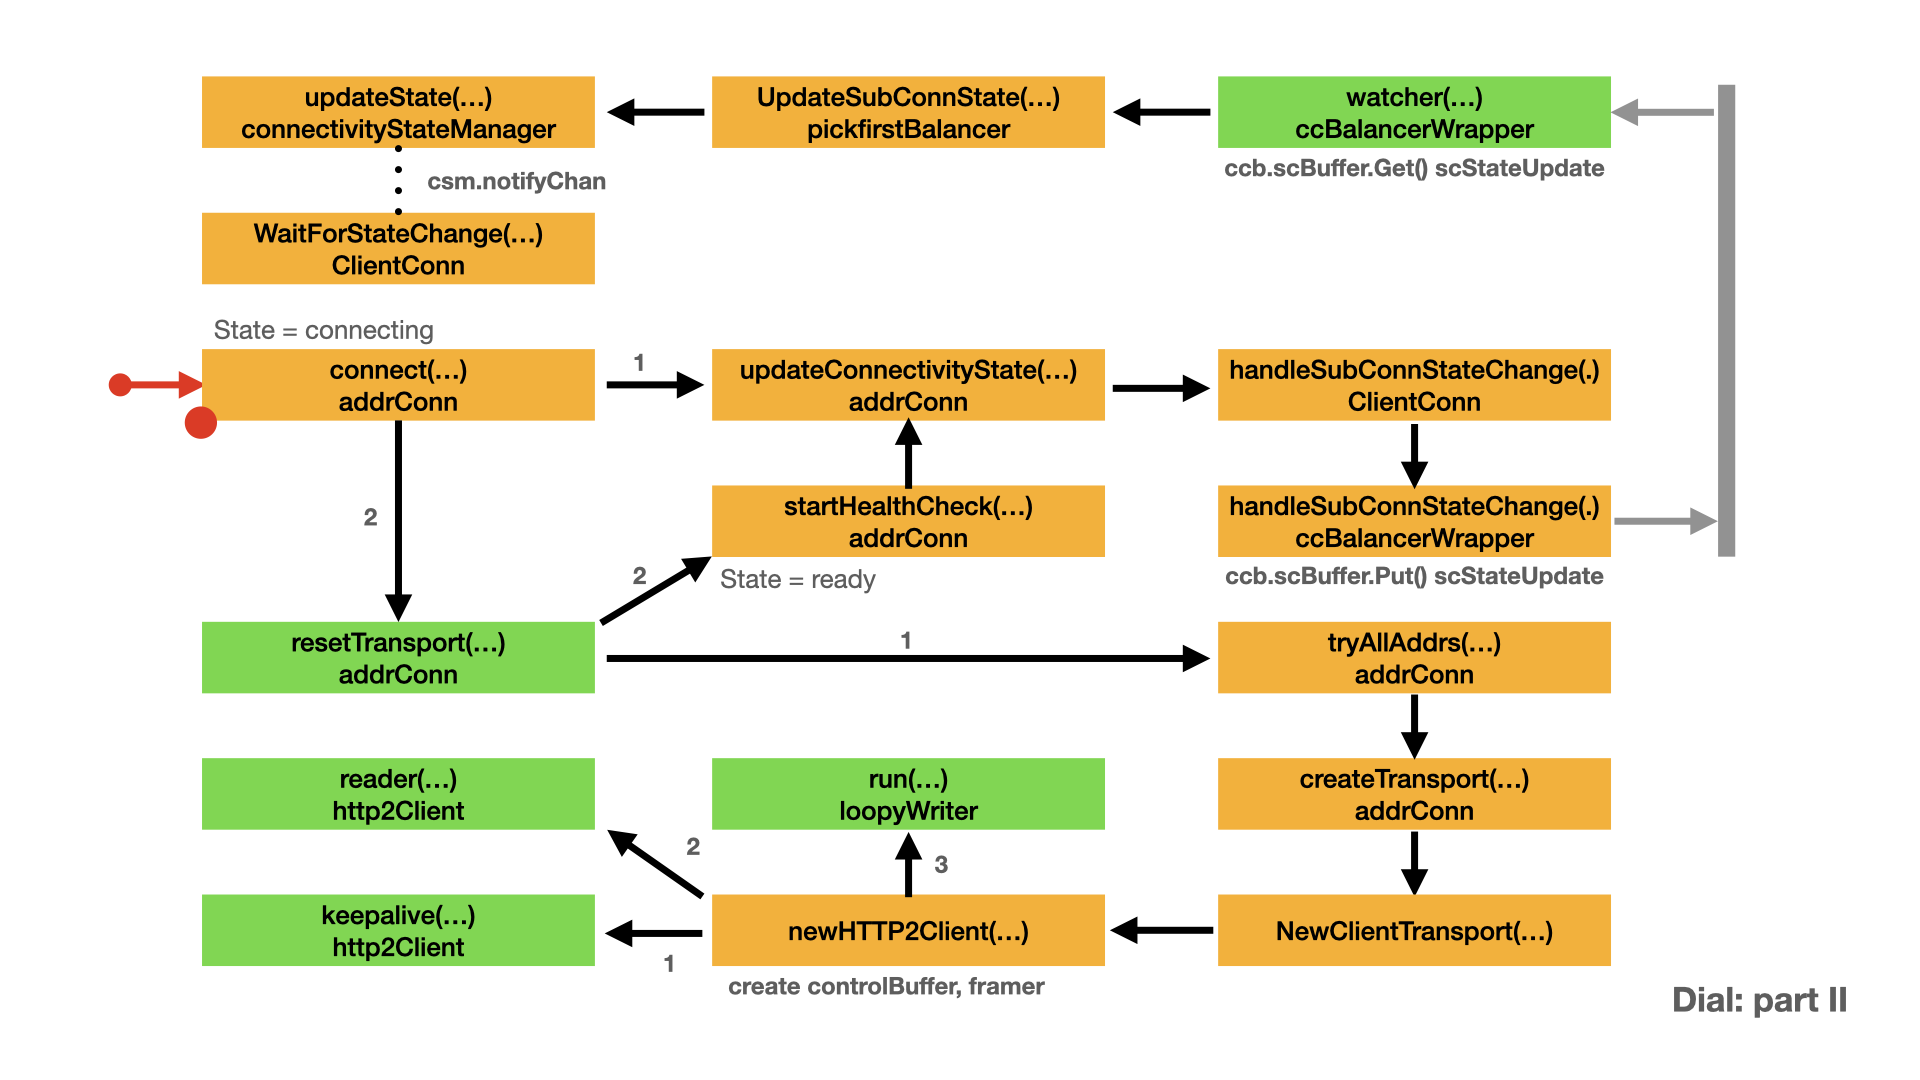
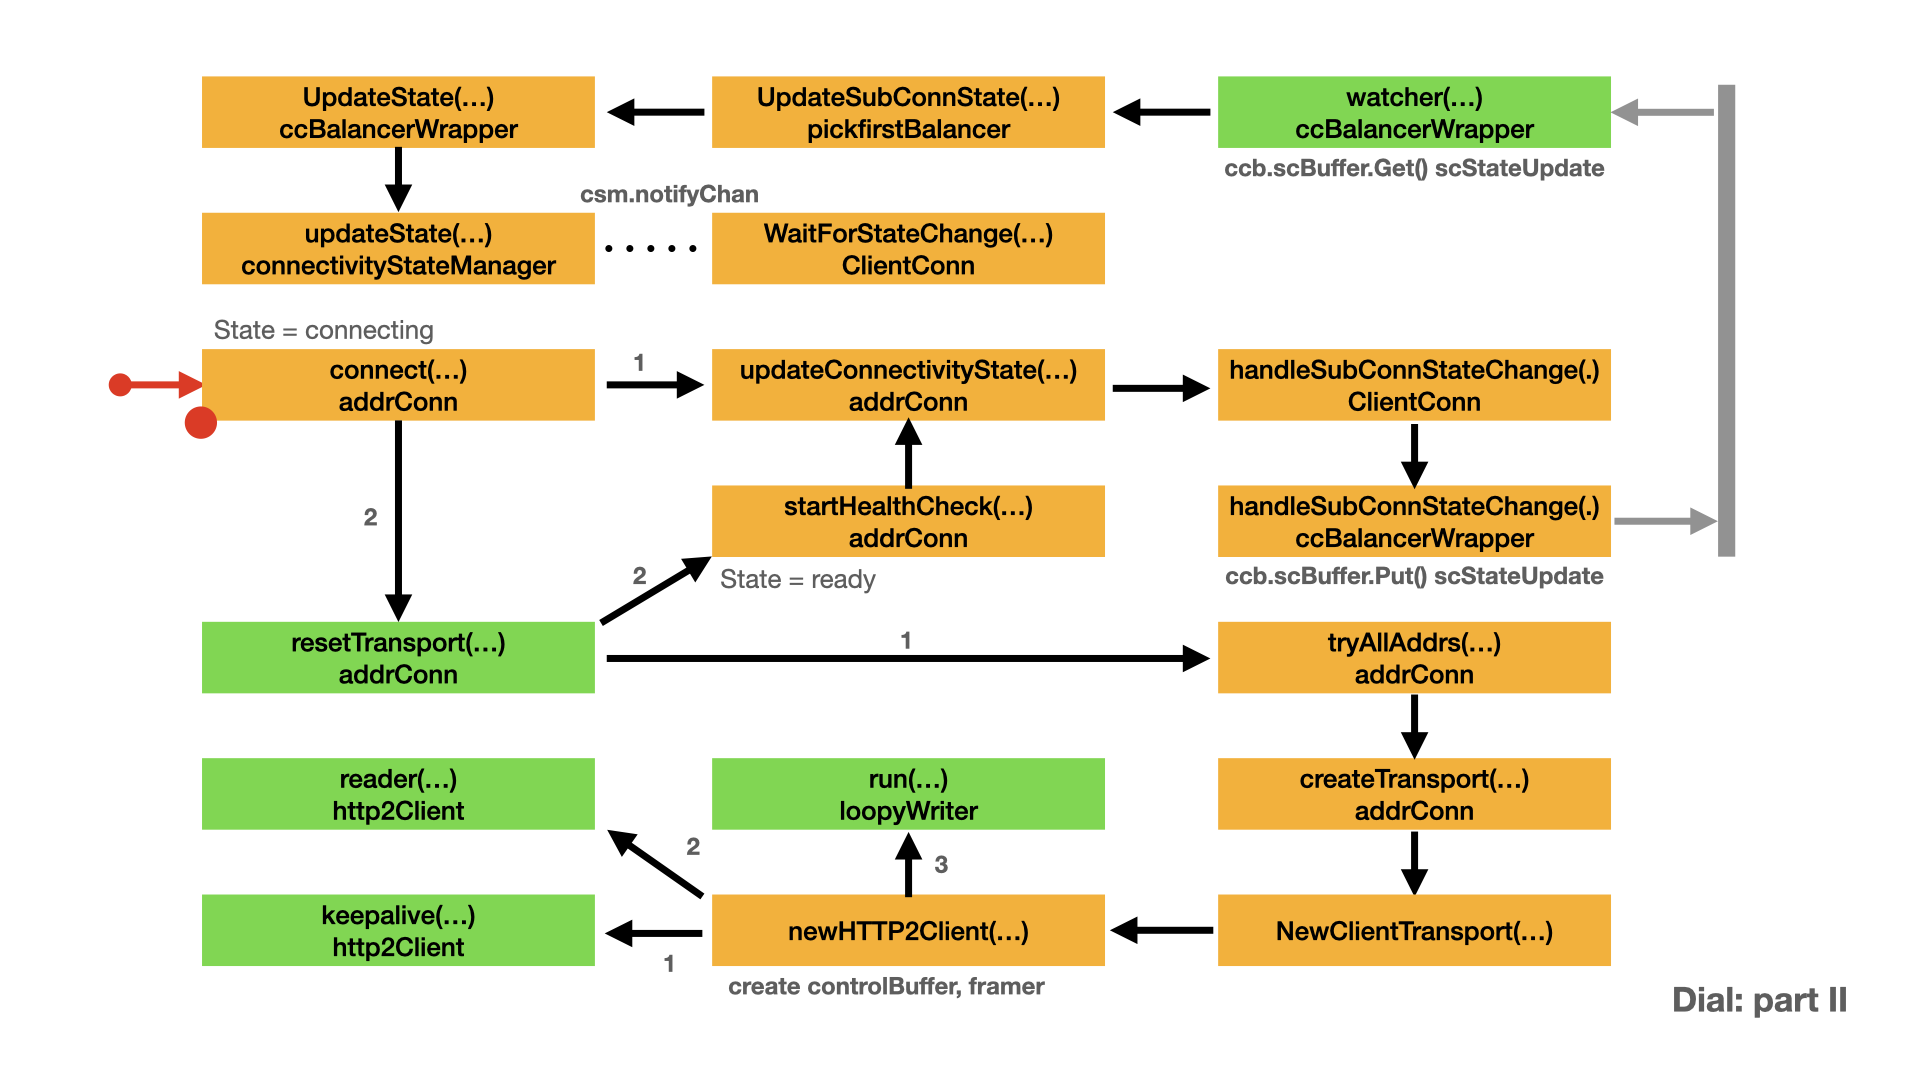
add sections 'Watch sub-connection update' and 'Connect successfully'

Changed region(s): [[0.125, 0.0611, 0.5938, 0.275]]

diff --git a/docs/dial.md b/docs/dial.md
@@ -6,10 +6,12 @@
   - [Create resolver](#create-resolver)
   - [Apply service config](#apply-service-config)
   - [Initialize balancer](#initialize-balancer)
+  - [Watch sub-connection update](#watch-sub-connection-update)
   - [Update client connection](#update-client-connection)
 - [Dial process part II](#dial-process-part-ii)
   - [Update connectivity state](#update-connectivity-state)
   - [Create transport](#create-transport)
+  - [Connect successfully](#connect-successfully)
 
 Client dial is the process to establish the connection with the target server. Client dial is a necessary step before any RPC happens.
 
@@ -669,6 +671,8 @@ func (*pickfirstBuilder) Name() string {
 }
 ```
 
+### Watch sub-connection update
+
 `ccb.watcher()` waits and reads the connection state `t` from a channel `ccb.scBuffer.Get()`
 
 - `t` is an object of type `scStateUpdate`
@@ -1031,7 +1035,7 @@ func (cc *ClientConn) handleSubConnStateChange(sc balancer.SubConn, s connectivi
 - `Unbounded.Put()` sends the message to a channel in `Unbounded` struct.
 - `ccb.watcher()` reads the message from the same channel in `Unbounded` struct.
 
-Please refer to [Initialize balancer](#initialize-balancer) for the detail of `ccb.watcher()`.
+Please refer to [Watch sub-connection update](#watch-sub-connection-update) for the detail of `ccb.watcher()`.
 
 ```go
 func (ccb *ccBalancerWrapper) handleSubConnStateChange(sc balancer.SubConn, s connectivity.State, err error) {
@@ -1095,7 +1099,7 @@ In the last step of `addrConn.connect()`, `addrConn.resetTransport()` will be ca
 - `resetTransport()` calls `ac.tryAllAddrs()`, which is `addrConn.tryAllAddrs()`.
 - If `ac.tryAllAddrs()` returned successfully, `resetTransport()` calls `ac.startHealthCheck()`.
 
-Next we discuss `ac.startHealthCheck()` first. `addrConn.tryAllAddrs()`  will be the last one to discuss.
+Next we discuss `addrConn.tryAllAddrs()` first. `ac.startHealthCheck()` will be the last one to discuss.
 
 ```go
 func (ac *addrConn) resetTransport() {
@@ -1193,57 +1197,6 @@ func (ac *addrConn) resetTransport() {
         // RPC activity that leads to the balancer requesting a reconnect of
         // the associated SubConn.
     }
-}
-```
-
-In `startHealthCheck()`, the defer function will call `ac.updateConnectivityState()` to set the connectivity state to ready.
-
-- Please refer to [Update connectivity state](#update-connectivity-state) for detail.
-- In our case, health check is disabled. Here we will not go deeper into health checking system.
-
-```go
-// startHealthCheck starts the health checking stream (RPC) to watch the health
-// stats of this connection if health checking is requested and configured.
-//
-// LB channel health checking is enabled when all requirements below are met:
-// 1. it is not disabled by the user with the WithDisableHealthCheck DialOption
-// 2. internal.HealthCheckFunc is set by importing the grpc/health package
-// 3. a service config with non-empty healthCheckConfig field is provided
-// 4. the load balancer requests it
-//
-// It sets addrConn to READY if the health checking stream is not started.
-//
-// Caller must hold ac.mu.
-func (ac *addrConn) startHealthCheck(ctx context.Context) {
-    var healthcheckManagingState bool
-    defer func() {
-        if !healthcheckManagingState {
-            ac.updateConnectivityState(connectivity.Ready, nil)
-        }
-    }()
-
-    if ac.cc.dopts.disableHealthCheck {
-        return
-    }
-    healthCheckConfig := ac.cc.healthCheckConfig()
-    if healthCheckConfig == nil {
-        return
-    }
-    if !ac.scopts.HealthCheckEnabled {
-        return
-    }
-+-- 30 lines: healthCheckFunc := ac.cc.dopts.healthCheckFunc······························································································
-    // Start the health checking stream.
-    go func() {
-        err := ac.cc.dopts.healthCheckFunc(ctx, newStream, setConnectivityState, healthCheckConfig.ServiceName)
-        if err != nil {
-            if status.Code(err) == codes.Unimplemented {
-                channelz.Error(logger, ac.channelzID, "Subchannel health check is unimplemented at server side, thus health check is disabled")
-            } else {
-                channelz.Errorf(logger, ac.channelzID, "HealthCheckFunc exits with unexpected error %v", err)
-            }
-        }
-    }()
 }
 ```
 
@@ -1646,5 +1599,62 @@ func dial(ctx context.Context, fn func(context.Context, string) (net.Conn, error
         return proxyDial(ctx, address, grpcUA)
     }
     return (&net.Dialer{}).DialContext(ctx, networkType, address)
+}
+```
+
+### Connect successfully
+
+In `startHealthCheck()`, the defer function will call `ac.updateConnectivityState()` to set the connectivity state to ready.
+
+- In our case, health check is disabled. Here we will not go deeper into health checking system.
+
+That means `ac.updateConnectivityState(connectivity.Ready, nil)` will eventually call `ccBalancerWrapper.UpdateState()`. Which will update the `pickerWrapper.picker` field and the `connectivityStateManager.state` field.
+
+- Please refer to [Update connectivity state](#update-connectivity-state) for sending connectivity state and `SubConn` to `ccBalancerWrapper.watcher()`.
+- Please refer to [Watch sub-connection update](#watch-sub-connection-update) for receiving connectivity state and `SubConn` from `ccBalancerWrapper.watcher()`.
+
+```go
+// startHealthCheck starts the health checking stream (RPC) to watch the health
+// stats of this connection if health checking is requested and configured.
+//
+// LB channel health checking is enabled when all requirements below are met:
+// 1. it is not disabled by the user with the WithDisableHealthCheck DialOption
+// 2. internal.HealthCheckFunc is set by importing the grpc/health package
+// 3. a service config with non-empty healthCheckConfig field is provided
+// 4. the load balancer requests it
+//
+// It sets addrConn to READY if the health checking stream is not started.
+//
+// Caller must hold ac.mu.
+func (ac *addrConn) startHealthCheck(ctx context.Context) {
+    var healthcheckManagingState bool
+    defer func() {
+        if !healthcheckManagingState {
+            ac.updateConnectivityState(connectivity.Ready, nil)
+        }
+    }()
+
+    if ac.cc.dopts.disableHealthCheck {
+        return
+    }
+    healthCheckConfig := ac.cc.healthCheckConfig()
+    if healthCheckConfig == nil {
+        return
+    }
+    if !ac.scopts.HealthCheckEnabled {
+        return
+    }
++-- 30 lines: healthCheckFunc := ac.cc.dopts.healthCheckFunc······························································································
+    // Start the health checking stream.
+    go func() {
+        err := ac.cc.dopts.healthCheckFunc(ctx, newStream, setConnectivityState, healthCheckConfig.ServiceName)
+        if err != nil {
+            if status.Code(err) == codes.Unimplemented {
+                channelz.Error(logger, ac.channelzID, "Subchannel health check is unimplemented at server side, thus health check is disabled")
+            } else {
+                channelz.Errorf(logger, ac.channelzID, "HealthCheckFunc exits with unexpected error %v", err)
+            }
+        }
+    }()
 }
 ```
